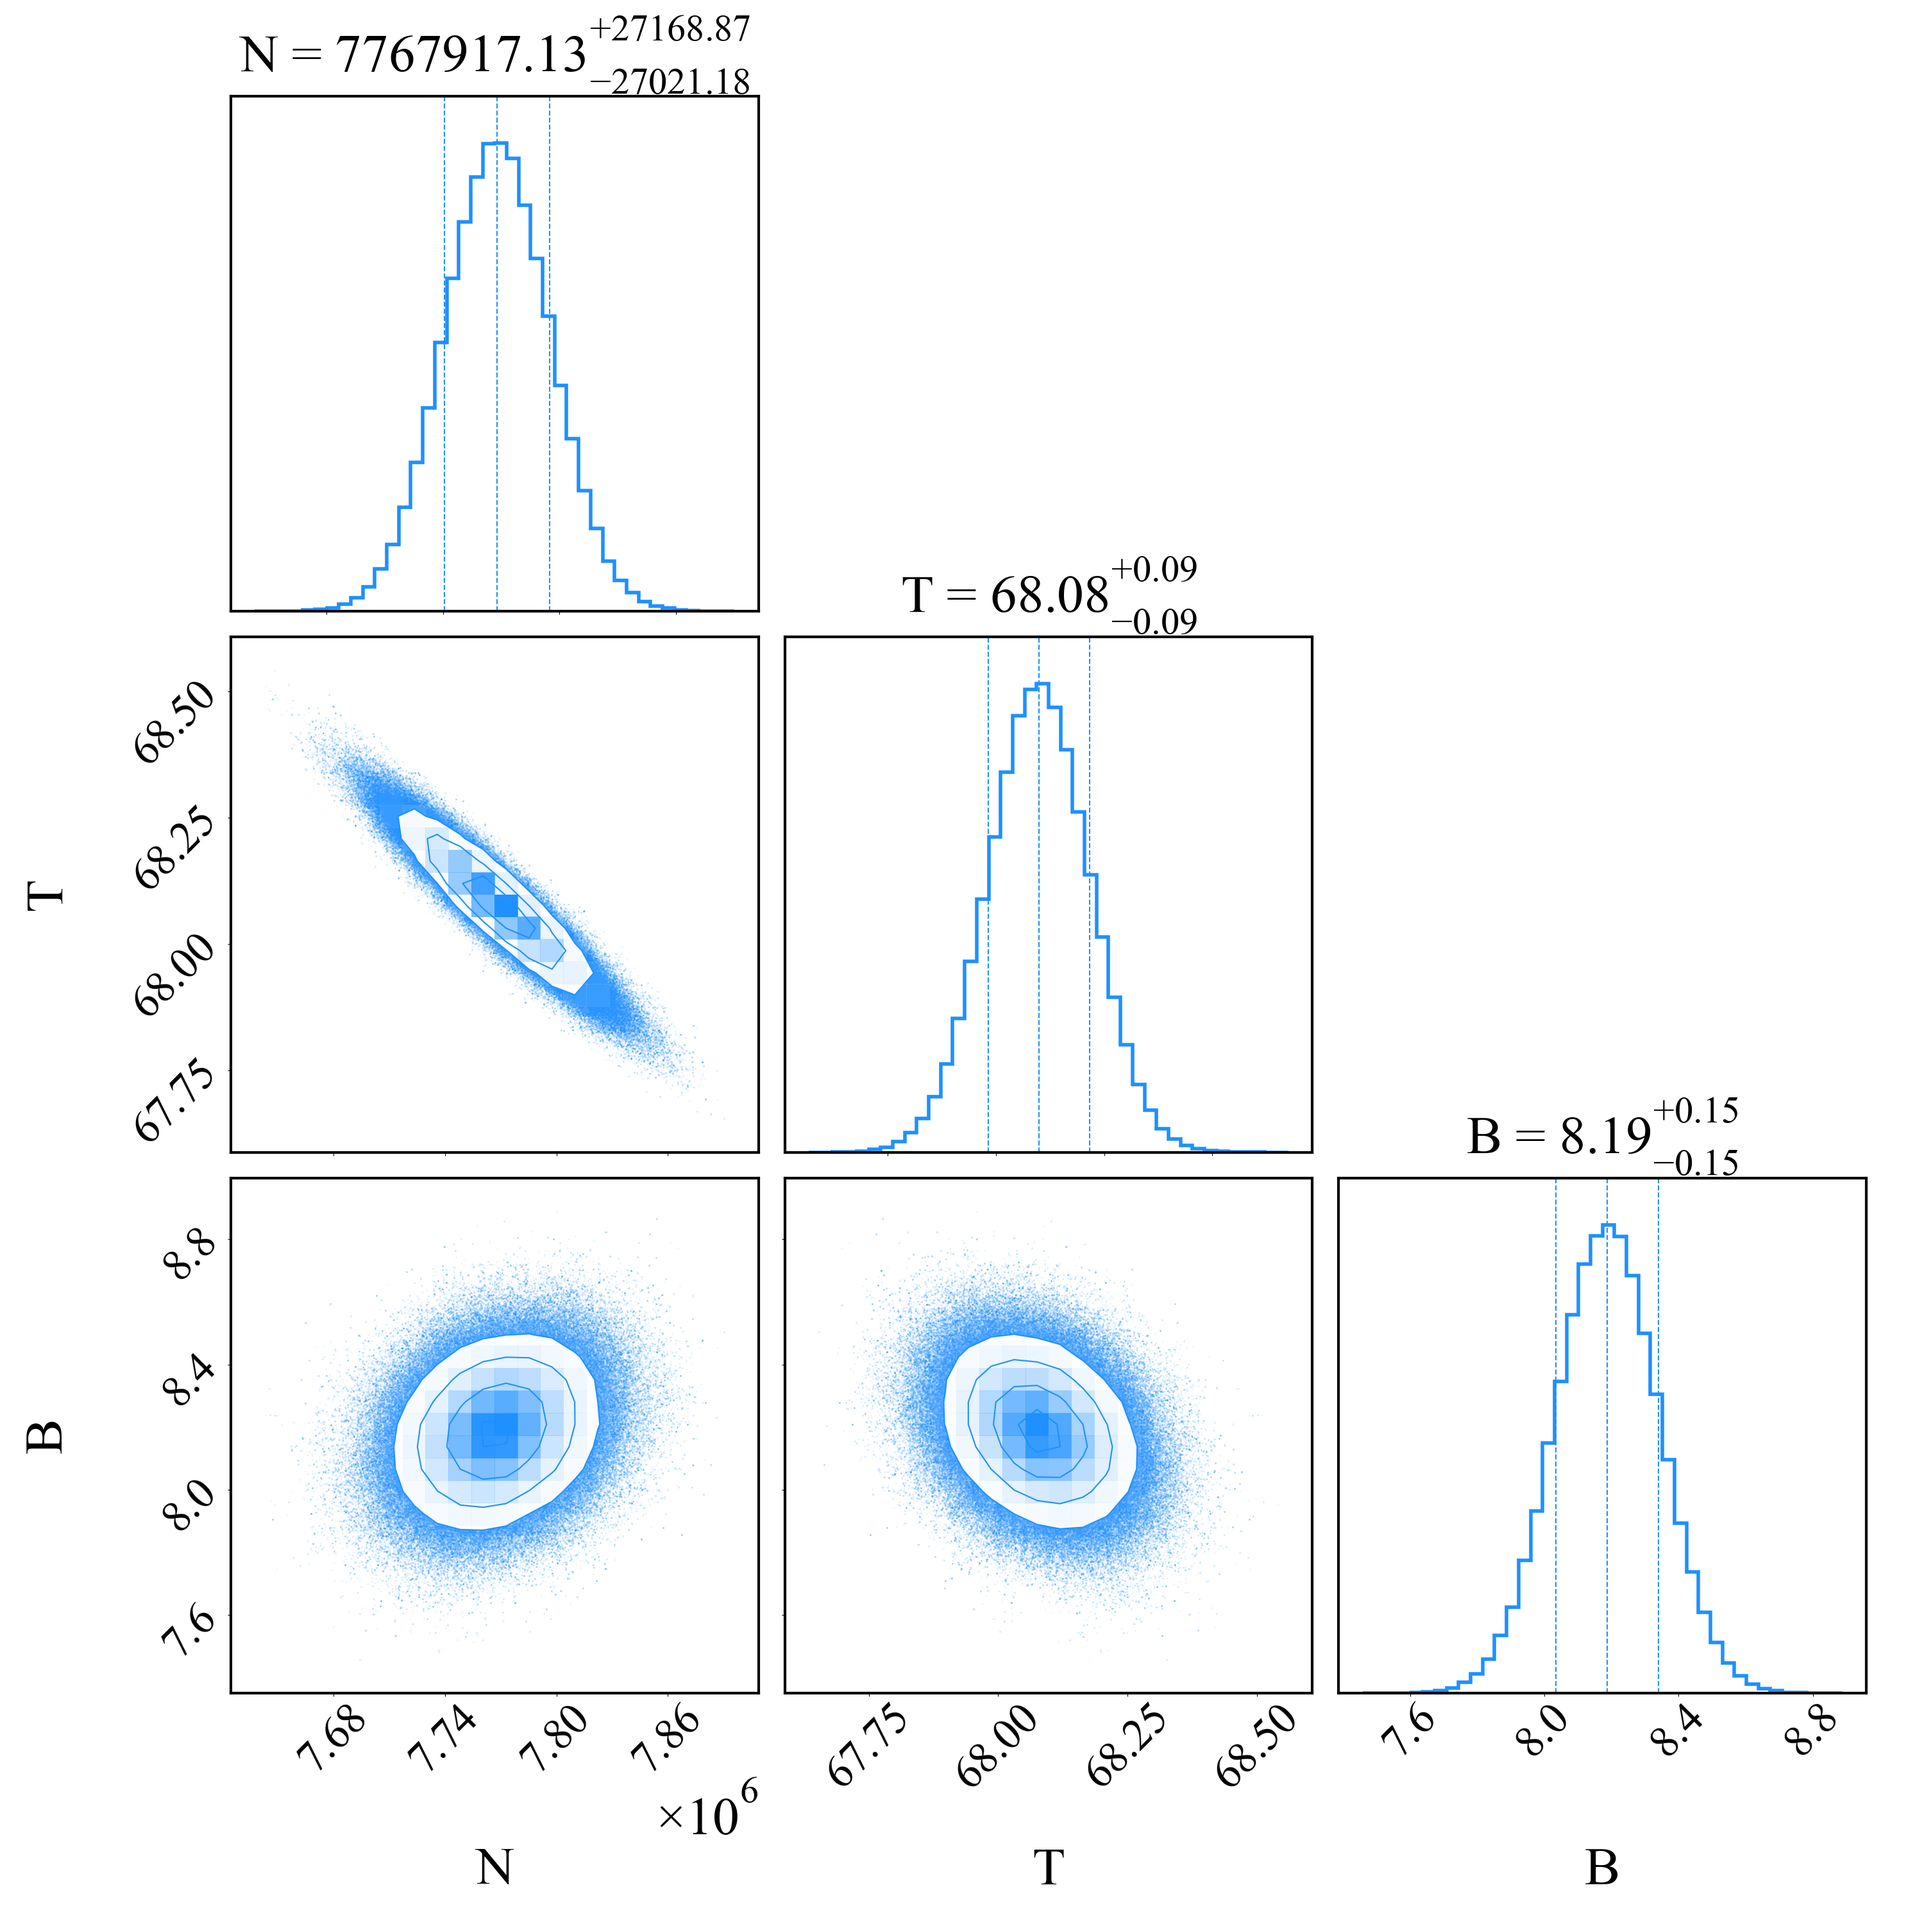
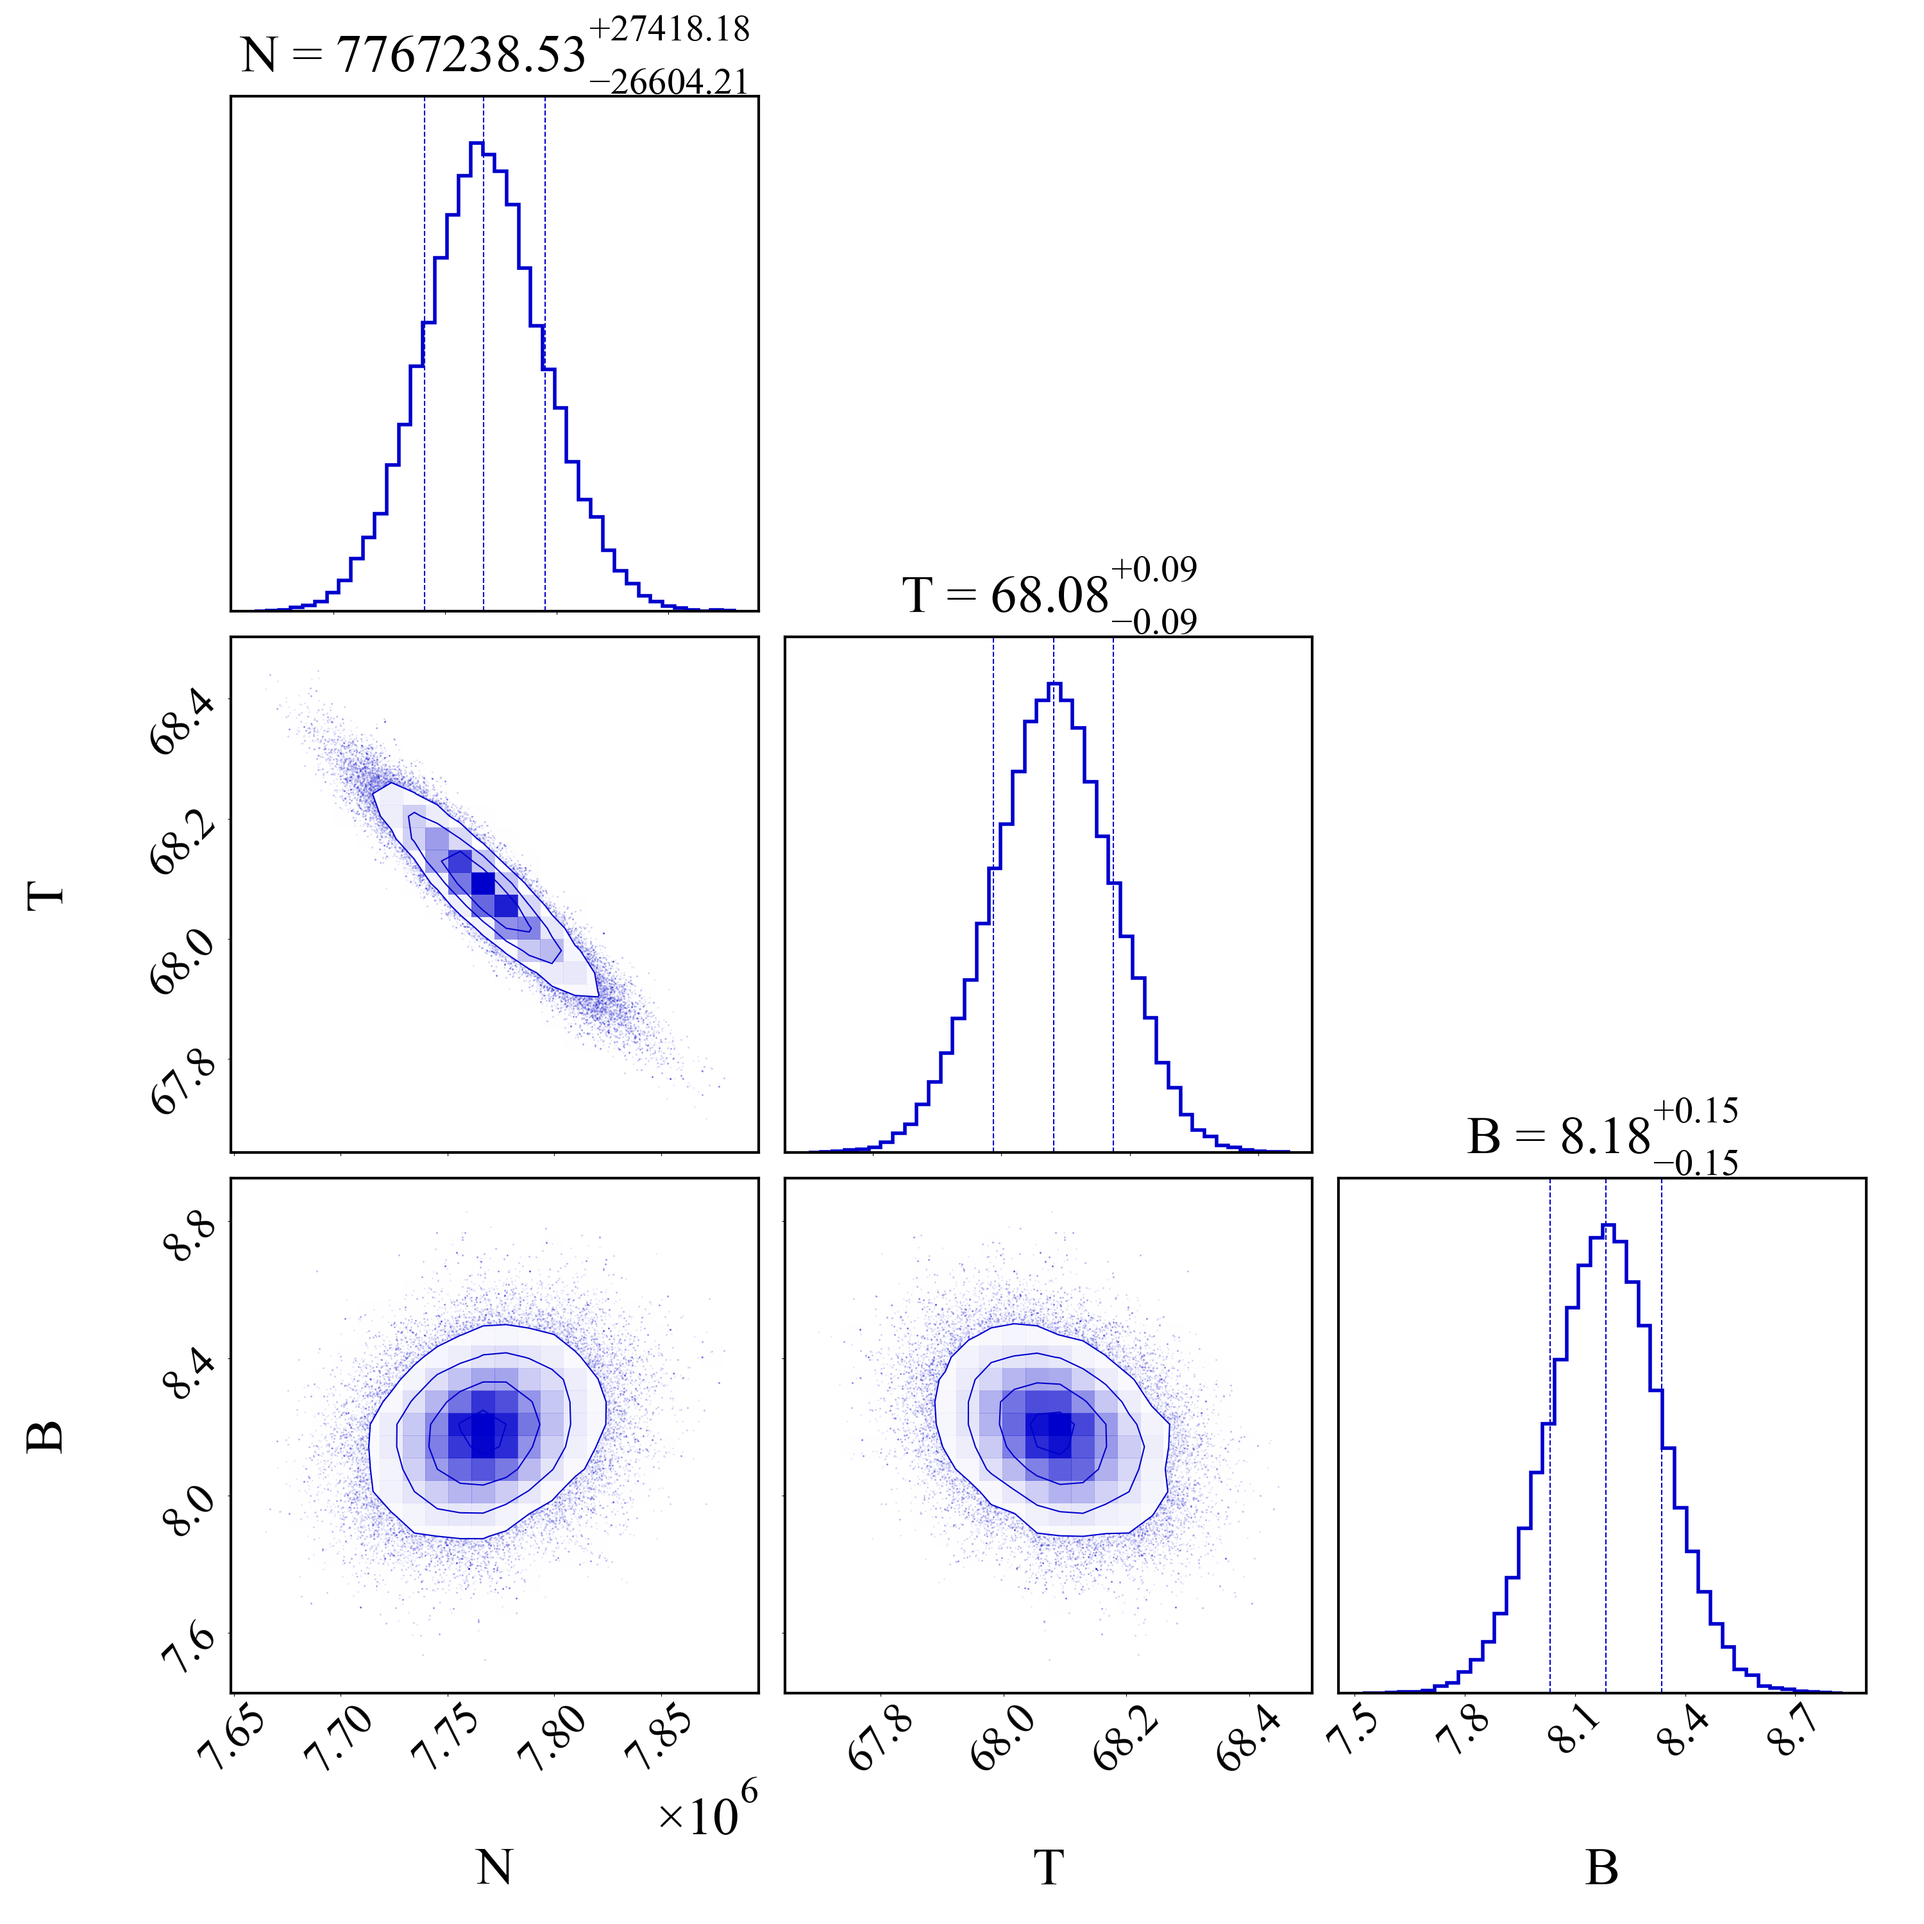
PXCT 237Np lifetime measurement

diff --git a/Bayesian_Fit_Exp/Bayesian_Fit_Exp.py b/Bayesian_Fit_Exp/Bayesian_Fit_Exp.py
@@ -9,13 +9,41 @@ import scipy.stats as sps
 
 
 print("[Step 1: Read data from CSV input files and plot data.]")
+Which_Dataset = 'timing_msdtotal_e' # Modify
+# Which_Dataset = 'timing_msd26_e'
 
-# Load data fullrange csv files and model fullrange csv files and model parameter values csv files
-data_fullrange = np.loadtxt('F:/e21010/pxct/timing_msdtotal_e_5361_5481_msd26_t_bin1ns.csv', delimiter=',')  # Read full range data # csv derived from histogram
-bin_start = 1500 + 160 # don't change the 1500, which is an offset
-# bin 0 is the first; bin 1650 is the 1651st = 150.5 ns;  bin 2040 is the 2041st = 540 ns
+if Which_Dataset == 'timing_msdtotal_e':
+    Which_MSD = 12 # Modify: 12 for MSD12; 26 for MSD26
+    Ea_central = 5421 # 5421 for MSDtotal, based on LISE++ calculation
+    
+    if Which_MSD == 12:
+        bin_start = 1500 + 240 # don't change the 1500, which is an offset
+    
+    if Which_MSD == 26:
+        bin_start = 1500 + 160 # don't change the 1500, which is an offset
+        # bin 0 is the first; bin 1650 is the 1651st = 150.5 ns;  bin 2040 is the 2041st = 540 ns
+    
+    Ea_gate = 60 # 3; 3 means +/-3 keV = 6 keV; 20 means +/-20 keV = 40 keV
+
+
+
+if Which_Dataset == 'timing_msd26_e':
+    Which_MSD = 26 # 26 for MSD26
+    Ea_central = 5479 # 5479 for MSD26; based on LISE++ calculation
+    Ea_gate = 20 # 3; 3 means +/-3 keV = 6 keV; 20 means +/-20 keV = 40 keV
+    
+
 bin_stop = 1500 + 1420 # don't change the 1500, which is an offset
 # bin 2920 is the 2921st = 1420.5 ns (not included), so the last included bin is 1420.5 - 1 = 1419.5 ns
+
+msd_e_cut_low = Ea_central - Ea_gate
+msd_e_cut_high = Ea_central + Ea_gate
+
+# Load data fullrange csv files and model fullrange csv files and model parameter values csv files
+print('F:/e21010/pxct/' + Which_Dataset + '_' + str(msd_e_cut_low) + '_' + str(msd_e_cut_high) + '_msd' + str(Which_MSD) + '_t_bin1ns.csv')
+data_fullrange = np.loadtxt('F:/e21010/pxct/' + Which_Dataset + '_' + str(msd_e_cut_low) + '_' + str(msd_e_cut_high) + '_msd' + str(Which_MSD) + '_t_bin1ns.csv', delimiter=',')  # Read full range data # csv derived from histogram
+
+
 data_peakrange = data_fullrange[bin_start:bin_stop, :] # Select data in the peak range by rows
 data_x_values_peakrange = data_peakrange[:, 0]
 data_y_values_peakrange = data_peakrange[:, 1]
@@ -39,13 +67,13 @@ plt.rcParams['mathtext.fontset'] = 'custom'
 plt.rcParams['mathtext.rm'] = 'Times New Roman'
 plt.rcParams['mathtext.it'] = 'Times New Roman:italic'
 
-fig, ax_prior = plt.subplots(figsize=(36, 12))
+fig, ax_prior = plt.subplots(figsize=(24, 12))
 fig.subplots_adjust(left=0.08, bottom=0.18, right=0.98, top=0.96)
 
 ax_prior.errorbar(data_x_values_peakrange, data_y_values_peakrange, yerr=[data_y_varlow_peakrange,data_y_varhigh_peakrange], fmt='s', color='black', linewidth=2, markersize=2, label='Data', ecolor='black', zorder=2)  # zorder 2 appears on top of the zorder = 1.
 ax_prior.tick_params(axis='both', which='major', labelsize=60, length=9, width=2)
 # ax.tick_params(direction='in')
-ax_prior.set_xlabel("Time difference LEGe - MSD26 (ns)", fontsize=60, labelpad=20)
+ax_prior.set_xlabel("Time difference LEGe - MSD" + str(Which_MSD) + " (ns)", fontsize=60, labelpad=20)
 ax_prior.set_ylabel("Counts per 1 ns", fontsize=60, labelpad=11)
 xmin = min(data_x_values_peakrange) - 0.5
 xmax = max(data_x_values_peakrange) + 0.5
@@ -57,7 +85,8 @@ ax_prior.set_ylim(0, ymax)
 # Adjust the width of the frame
 for spine in ax_prior.spines.values():
     spine.set_linewidth(3)  # Set the linewidth to make the frame wider
-plt.savefig('Exp_data.png')
+
+fig.savefig('Exp_data_' + Which_Dataset + '_' + str(Which_MSD) + '_t.png')
 
 
 print("[Step 2: Define the exponential decay function (Model).]")
@@ -109,7 +138,7 @@ initial_positions[:, 2] =  (0.9 + 0.2 * np.random.rand(num_walkers)) * 9  # init
 
 
 print("[Step 8: Run MCMC sampling.]")
-num_steps = 10200
+num_steps = 1200
 sampler.run_mcmc(initial_positions, num_steps, progress=True)
 
 print("\n[Step 9: Get the chain and discard burn-in.]")
@@ -121,7 +150,7 @@ labels = ["N", "T", "B"]
 fig, axes = plt.subplots(len(labels), len(labels), figsize=(30, 30))
 fig = corner.corner(chain, labels=labels, fig=fig, 
                     quantiles=[0.16, 0.5, 0.84], 
-                    color='dodgerblue', 
+                    color='mediumblue', 
                     use_math_text=True,
                     hist_bin_factor=2,
                     show_titles=True, 
@@ -138,7 +167,7 @@ fig.subplots_adjust(left=0.12, bottom=0.12, right=0.97, top=0.95)
 for ax in fig.axes:
     ax.tick_params(axis='both', labelsize=50)  # Adjust tick label size as needed
 
-fig.savefig("Exp_corner_plot.png")
+fig.savefig("Fig_PXCT_Lifetime_241Am_LEGe_MSD" + str(Which_MSD) + "_Posterior2D.png")
 
 
 print("[Step 11: Plot transparent uncertainty band predictions with calibrated parameters.]")
@@ -160,7 +189,7 @@ p3 = ax_post_predict.fill_between(data_x_values_peakrange, posterior_y_lower, po
 p2 = ax_post_predict.plot(data_x_values_peakrange, posterior_y_median, color='dodgerblue', alpha=1.0, linewidth=3, zorder=2)
 ax_post_predict.tick_params(axis='both', which='major', labelsize=60, length=9, width=2)
 # ax.tick_params(direction='in')
-ax_post_predict.set_xlabel("Time difference LEGe - MSD26 (ns)", fontsize=60, labelpad=20)
+ax_post_predict.set_xlabel("Time difference LEGe - MSD" + str(Which_MSD) + " (ns)", fontsize=60, labelpad=20)
 ax_post_predict.set_ylabel("Counts per 1 ns", fontsize=60, labelpad=11)
 ax_post_predict.legend(['95% Credible Interval', 'Prediction Median', 'Data'], fontsize=60, loc='upper right')
 xmin = min(data_x_values_peakrange) - 0.5
@@ -175,7 +204,7 @@ ax_post_predict.set_yscale('log')
 for spine in ax_prior.spines.values():
     spine.set_linewidth(3)  # Set the linewidth to make the frame wider
 
-plt.savefig("Exp_fit_prediction.png")
-
+plt.savefig('Fig_PXCT_Lifetime_241Am_LEGe_MSD' + str(Which_MSD) + '_Prediction.png')
 
 print("[The End]")
+
